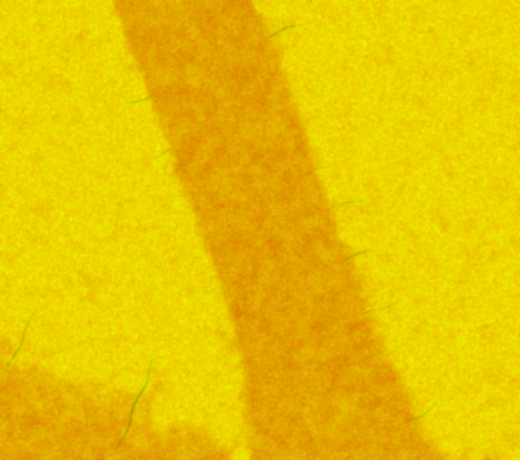
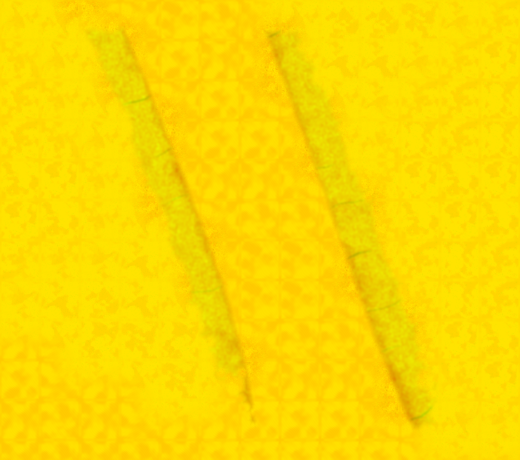
art(inlet): dissolve the upstream cut-paper edge into its actual native terrain finish

diff --git a/studies/island-art-week/INLET_UNDERPAINT.md b/studies/island-art-week/INLET_UNDERPAINT.md
@@ -5,3 +5,7 @@ At the 1.12 m upstream inlet-bar lens (eye 94.15,453.9; direction +2.45,-29.2; 2
 The candidate takes the native habitat UV, original vertex pigment, roughness, effective ambient occlusion, smooth normal and quarter-turned normal-map frame at each texel. It joins them to the weathered cut bank before the existing mask, rather than layering extra transparencies or hiding edges with high-frequency speckle. It softens the last roughly 1.3 m on the bank surface in projected map distance. The bank keeps its ground triangles, root tufts and stones; all native landform, water height, collision and save records are unchanged. This is a material candidate, not the southern inlet landform proposal.
 
 Compare three actual Blender art states from the locked upstream camera: bare native habitat, V1 bank as installed before this change, and the underpaint candidate. Also compare the established downstream and wide cameras. The offshore pigment uses one raster shared by display LODs; don't double-paint the already modified outer map. If selected, rebuild the far-inlet region from the pre-inlet original, plus the newly underpainted skin. Next week's native game checks remain outstanding.
+
+## Selected native-art candidate
+
+[Same upstream eye, old to revised](inlet-bar-feathered.jpg) · [bare habitat vs current older sharp-cut film](inlet-bare-versus-original.jpg) · [downstream](inlet-eye-feathered.jpg) · [guardian](inlet-wide-feathered.jpg) · [bake properties and source](inlet-underpaint-selected.json). The old 0.43 coverage is retained only for the far-pigment composite. Near, the exact existing selected triangles sample one continuous, opaque PBR material: their colour, roughness and surface normals join those of the underlying habitat across the old cut edge. The terrain positions, native physical surface and dressing topology are unchanged. Do not confuse the separate upstream inlet concept with a native physics or new-save change. No gameplay validation requested this week.

diff --git a/studies/island-art-week/NEXT_WEEK.md b/studies/island-art-week/NEXT_WEEK.md
@@ -159,3 +159,7 @@ In a throwaway V1 profile, approach wild grass 3406 (74.75,301.40). Compare at 1
 ### Original valley saplings
 
 In the same throwaway world, follow #1116 (45.447,237.543), then #933 and #423. Re-create the 1.04 m eye at (50.1,244.3). Inspect woody joins, honest tree/prop collisions, lit and shaded leaves, and current distance switches; the far boughs must not blink or turn into lone black spots. No new collision or saved world entity is intended. No game, tests or headset/GPU was used during this art pass.
+
+### Upstream bank material, not the inlet shape concept
+
+At x94.15,z453.9 orient along (+2.45,-29.2), eye 1.12 m above the actual V1 floor. Inspect the formerly hard beige material islands just beyond the camera, check the map atlas/normal orientation and six-millimetre coating on the grazing view; retreat past the native range to the paired macro. Repeat along the opposite bank and at the actual guardian view. The fitted bank remains cosmetic and the collider is V1. Game, saves, native light, mip transitions and performance were not checked during the art week.

diff --git a/studies/island-art-week/README.md b/studies/island-art-week/README.md
@@ -1,5 +1,7 @@
 # Island art week
 
+[Start here: selected native art, V1/V2 and unbound studies](ART_INDEX.md). Earlier test and studio reports below are historical, not instructions to run the game this week.
+
 Single working branch for Qualia's coastal habitat. The original terrain
 material and geometry pass is PR #412. Its separate [physical ridge
 study](../island-ridge-v2/README.md) changes both render and collision for
@@ -257,3 +259,7 @@ was performed for the new assets. The gallery is not native acceptance.
 ### Young saltwood, original valley
 
 [Original sapling 1116, same habitat and lens](young-saltwood.jpg) · [workbench, original versus revised](young-saltwood-workbench.jpg) · [original timber and asset source](YOUNG_SALTWOOD.md). Offline art only.
+
+### The close V1 stream wall
+
+[Old and joined upstream terrain finish](inlet-bar-feathered.jpg) · [actual original two materials](inlet-bare-versus-original.jpg) · [material source](INLET_UNDERPAINT.md). This is the original V1 surface, not the editable alternative landform and not a running game.
